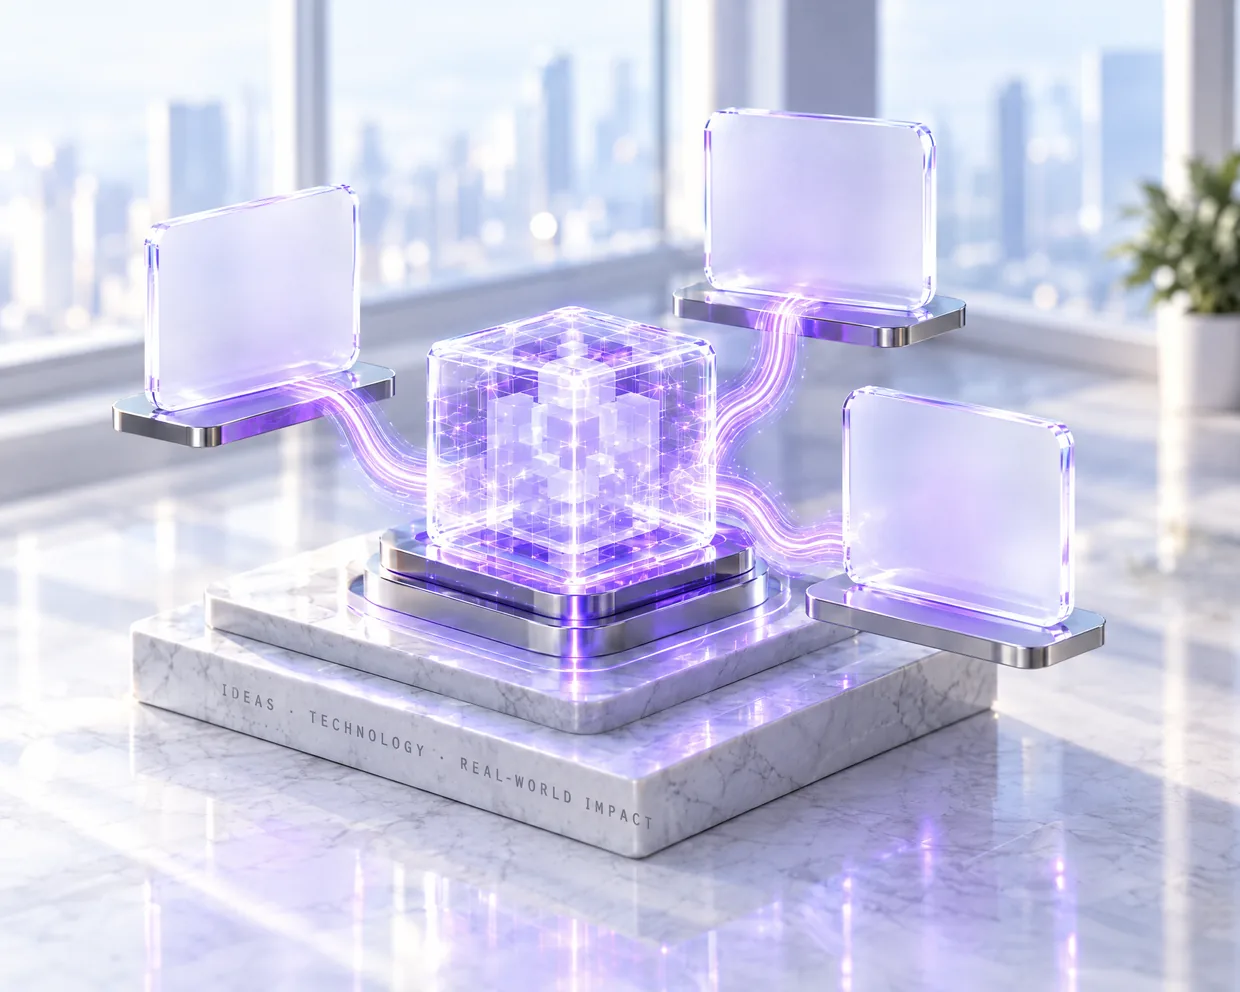
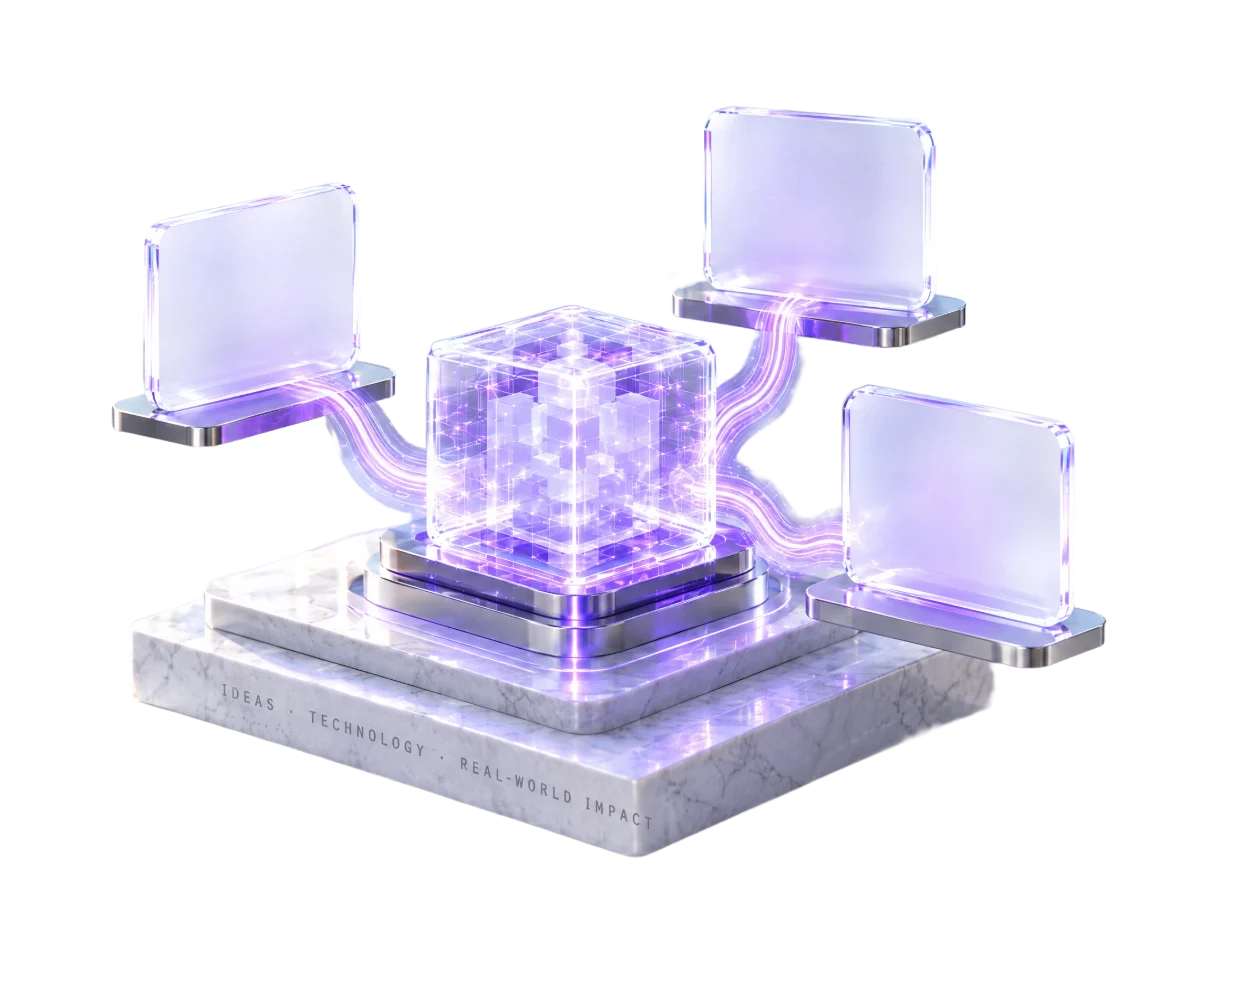
fix(hero): remove the background for real, and fit the labels to measured panels
Founder: "the image text is not properly fitted on boxs / remove the
background images". Both done, and both turned up a fault worth recording.

THE BACKGROUND REMOVAL SILENTLY DID NOT SHIP THE FIRST TIME.

Higgsfield's remover produced a genuinely transparent cut-out - verified on
the served file at 64.6% fully transparent with all four corners alpha 0.
The asset that reached public/ was nevertheless OPAQUE: hasAlpha=false,
channels=3, corner pixels (230,230,230).

The cause was the instrument, again. The file was brought to disk with a
CDP screenshot, and Chrome's standalone image viewer paints its OWN grey
backdrop behind the picture - so the capture was flattened onto grey before
sharp ever saw it. Setting a transparent page background did not help,
because the grey is drawn by the viewer, not by the page. A screenshot of an
image can never preserve that image's alpha.

Replaced with in-page re-encoding: the browser draws the image onto a
cleared canvas at each target width and returns WebP bytes, which are
written straight out. The canvas corner alpha is asserted at 0 before the
bytes leave the page. Shipped assets are now hasAlpha=true, channels=4,
isOpaque=false at all three widths.

THE LABELS ARE NOW FITTED TO MEASURED PANELS, NOT ESTIMATED ONES.

Each panel's real box - centre, width, height as a percentage of the figure
- was read off the render and is carried in the component, so every label is
[…]

diff --git a/src/components/HeroVisual/HeroVisual.tsx b/src/components/HeroVisual/HeroVisual.tsx
@@ -31,18 +31,34 @@ import Link from 'next/link';
 
 import { CENTRE, SERVICES } from '@/components/Hero3D/services';
 
-/* Where each label sits, as a percentage of the rendered scene, measured off
-   the image. `tilt` matches the panel's own plane. */
-const PLACEMENT: Record<
-  string,
-  { x: number; y: number; tilt: number; aside: 'left' | 'right' }
-> = {
-  engineering: { x: 20.5, y: 27.5, tilt: 17, aside: 'left' },
-  ai: { x: 65.4, y: 20.5, tilt: -15, aside: 'right' },
-  blockchain: { x: 77.4, y: 50, tilt: -13, aside: 'right' },
+/* THE PANELS' REAL BOXES, measured off the render itself rather than estimated:
+   centre x/y and width/height, each as a percentage of the figure. The first
+   attempt guessed these and produced labels WIDER THAN THE GLASS THEY SAT ON,
+   with the copy spilling onto the background. A label can only be fitted to a
+   panel whose dimensions are actually known.
+   `fill` is how much of the panel's width the label may occupy - the remainder
+   is the margin that keeps the text off the bevelled edge.
+   `tilt` matches the plane of that panel; flat text on an angled panel reads as
+   a sticker. */
+type Panel = {
+  x: number;
+  y: number;
+  w: number;
+  h: number;
+  tilt: number;
+  aside: 'left' | 'right';
 };
 
-const CENTRE_POS = { x: 46.4, y: 44.5 };
+const FILL = 0.82;
+
+const PLACEMENT: Record<string, Panel> = {
+  engineering: { x: 20.4, y: 29.7, w: 18.25, h: 22.5, tilt: 16, aside: 'left' },
+  ai: { x: 65.9, y: 20.4, w: 19.25, h: 20.3, tilt: -14, aside: 'right' },
+  blockchain: { x: 77.5, y: 49.4, w: 19.5, h: 21.25, tilt: -12, aside: 'right' },
+};
+
+/* The cube is wider than the panels, so its label gets more room. */
+const CENTRE_POS = { x: 46, y: 43.4, w: 23.5 };
 
 function Icon({ id }: { id: string }) {
   return (
@@ -98,7 +114,12 @@ export function HeroVisual() {
       {/* the centre */}
       <div
         className="hv__centre"
-        style={{ left: `${CENTRE_POS.x}%`, top: `${CENTRE_POS.y}%` }}
+        data-box={`${CENTRE_POS.x},${CENTRE_POS.y},${CENTRE_POS.w},${CENTRE_POS.w}`}
+        style={{
+          left: `${CENTRE_POS.x}%`,
+          top: `${CENTRE_POS.y}%`,
+          width: `${CENTRE_POS.w * 0.86}%`,
+        }}
       >
         <Icon id="centre" />
         <span className="hv__title hv__title--centre">{CENTRE.title}</span>
@@ -111,8 +132,11 @@ export function HeroVisual() {
         return (
           <div
             className={`hv__panel hv__panel--${p.aside}`}
+            /* Published so the fit can be asserted against the panel it sits
+               on, not merely looked at. */
+            data-box={`${p.x},${p.y},${p.w},${p.h}`}
             key={s.id}
-            style={{ left: `${p.x}%`, top: `${p.y}%` }}
+            style={{ left: `${p.x}%`, top: `${p.y}%`, width: `${p.w * FILL}%` }}
           >
             <Link
               className="hv__hit"

diff --git a/src/components/HeroVisual/herovisual.css b/src/components/HeroVisual/herovisual.css
@@ -34,11 +34,9 @@
 .hv__centre {
   position: absolute;
   transform: translate(-50%, -50%);
-  /* 18%, measured against the panels in the render, which are 19.6%-22.5% of
-     the figure wide. At 27% the label was WIDER THAN THE GLASS IT SITS ON and
-     the copy spilled onto the office behind it - the label has to be the
-     narrower of the two or there is nothing holding it. */
-  width: 18%;
+  /* Width is set per panel in the component, from each panel's MEASURED box,
+     because the three are not the same size. A single shared width put the
+     label outside the glass on the narrowest of them. */
   z-index: 1;
 }
 
@@ -47,7 +45,7 @@
   flex-direction: column;
   align-items: flex-start;
   gap: 2px;
-  padding: 4px 5px;
+  padding: 2px 3px;
   border-radius: 8px;
   text-decoration: none;
   color: inherit;
@@ -71,7 +69,6 @@
   align-items: center;
   text-align: center;
   gap: 2px;
-  width: 24%;
 }
 
 /* ---- type --------------------------------------------------------------- */
@@ -83,25 +80,25 @@
 }
 
 .hv__title {
-  font-size: clamp(8px, 2cqi, 13px);
+  font-size: clamp(7.5px, 1.85cqi, 13px);
   font-weight: 650;
   line-height: 1.2;
   color: #1b1220;
 }
 
 .hv__title--centre {
-  font-size: clamp(9px, 2.35cqi, 15px);
+  font-size: clamp(8.5px, 2.2cqi, 15px);
 }
 
 .hv__line {
-  font-size: clamp(6px, 1.45cqi, 10px);
-  line-height: 1.3;
+  font-size: clamp(5.5px, 1.3cqi, 10px);
+  line-height: 1.28;
   color: #4a3f55;
 }
 
 .hv-icon {
-  width: clamp(10px, 2.6cqi, 17px);
-  height: clamp(10px, 2.6cqi, 17px);
+  width: clamp(9px, 2.3cqi, 17px);
+  height: clamp(9px, 2.3cqi, 17px);
   fill: none;
   stroke: var(--brand);
   stroke-width: 1.6;
